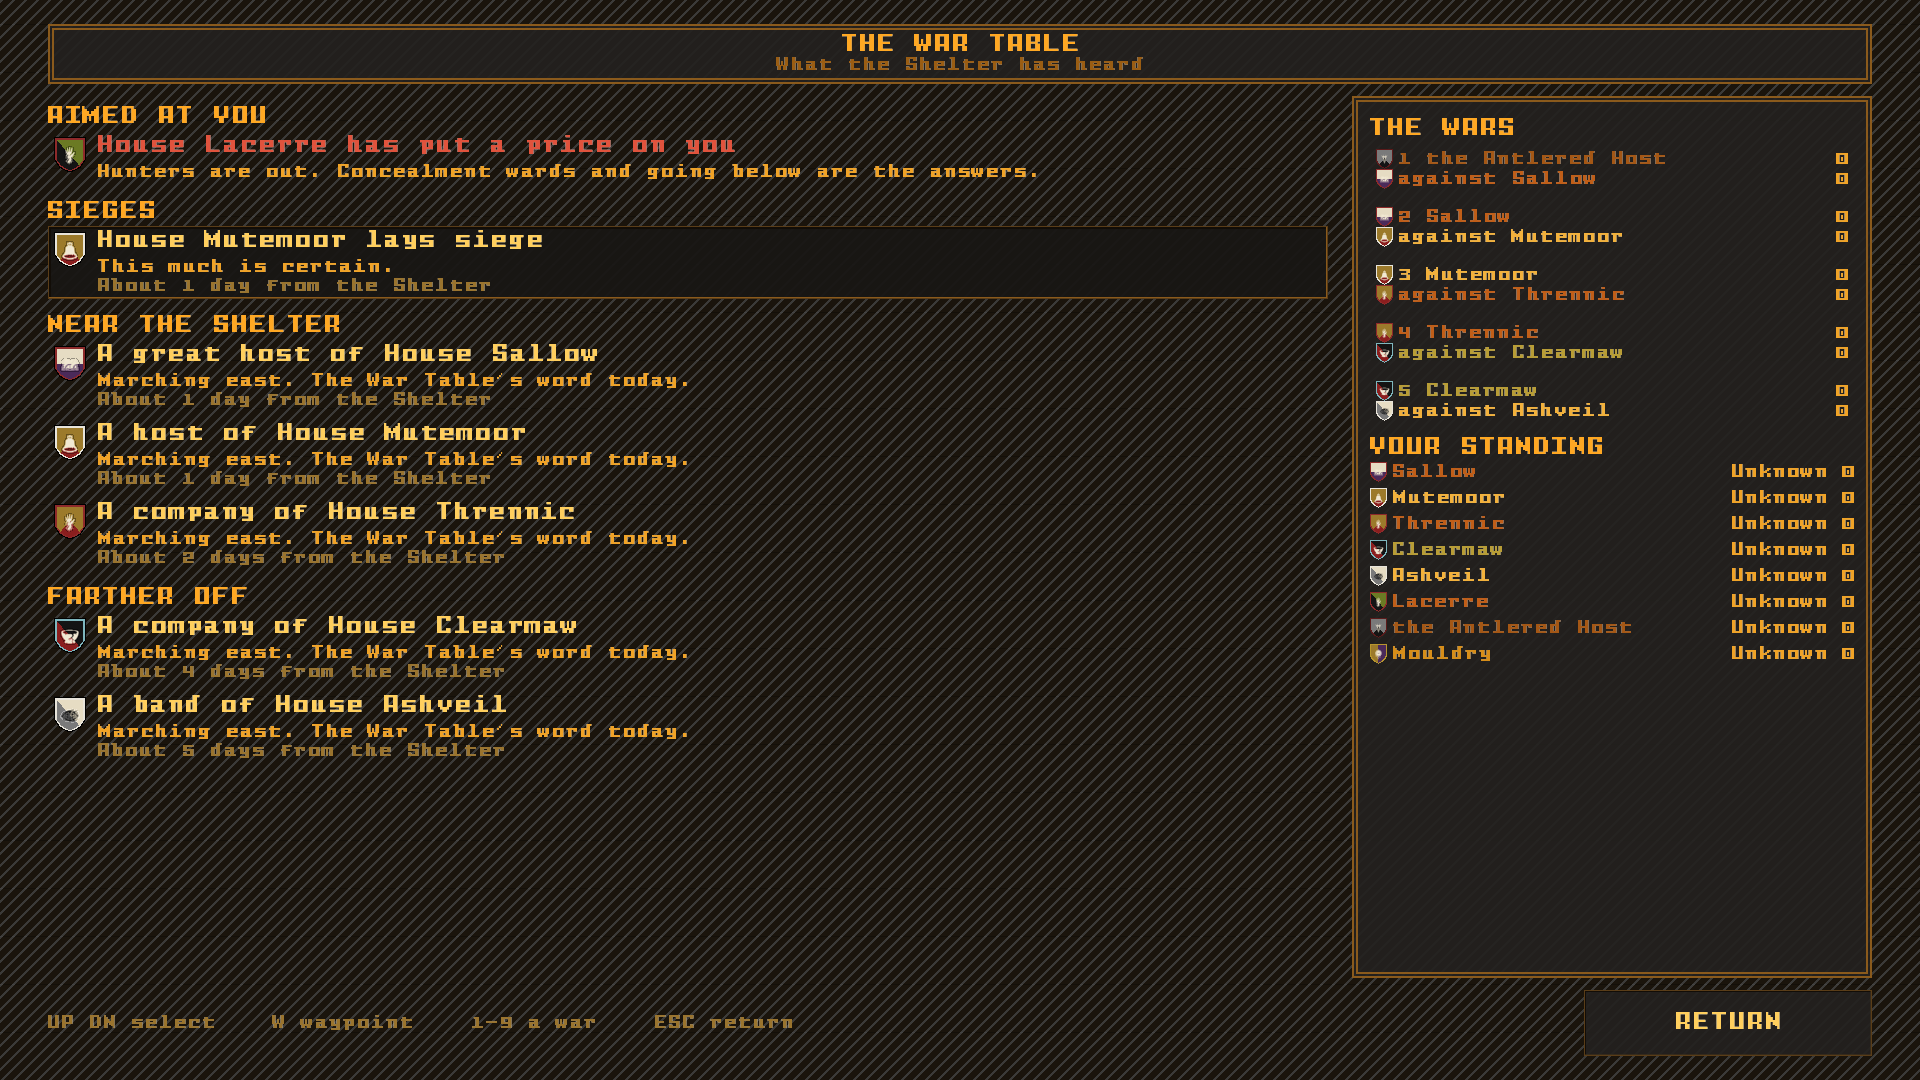
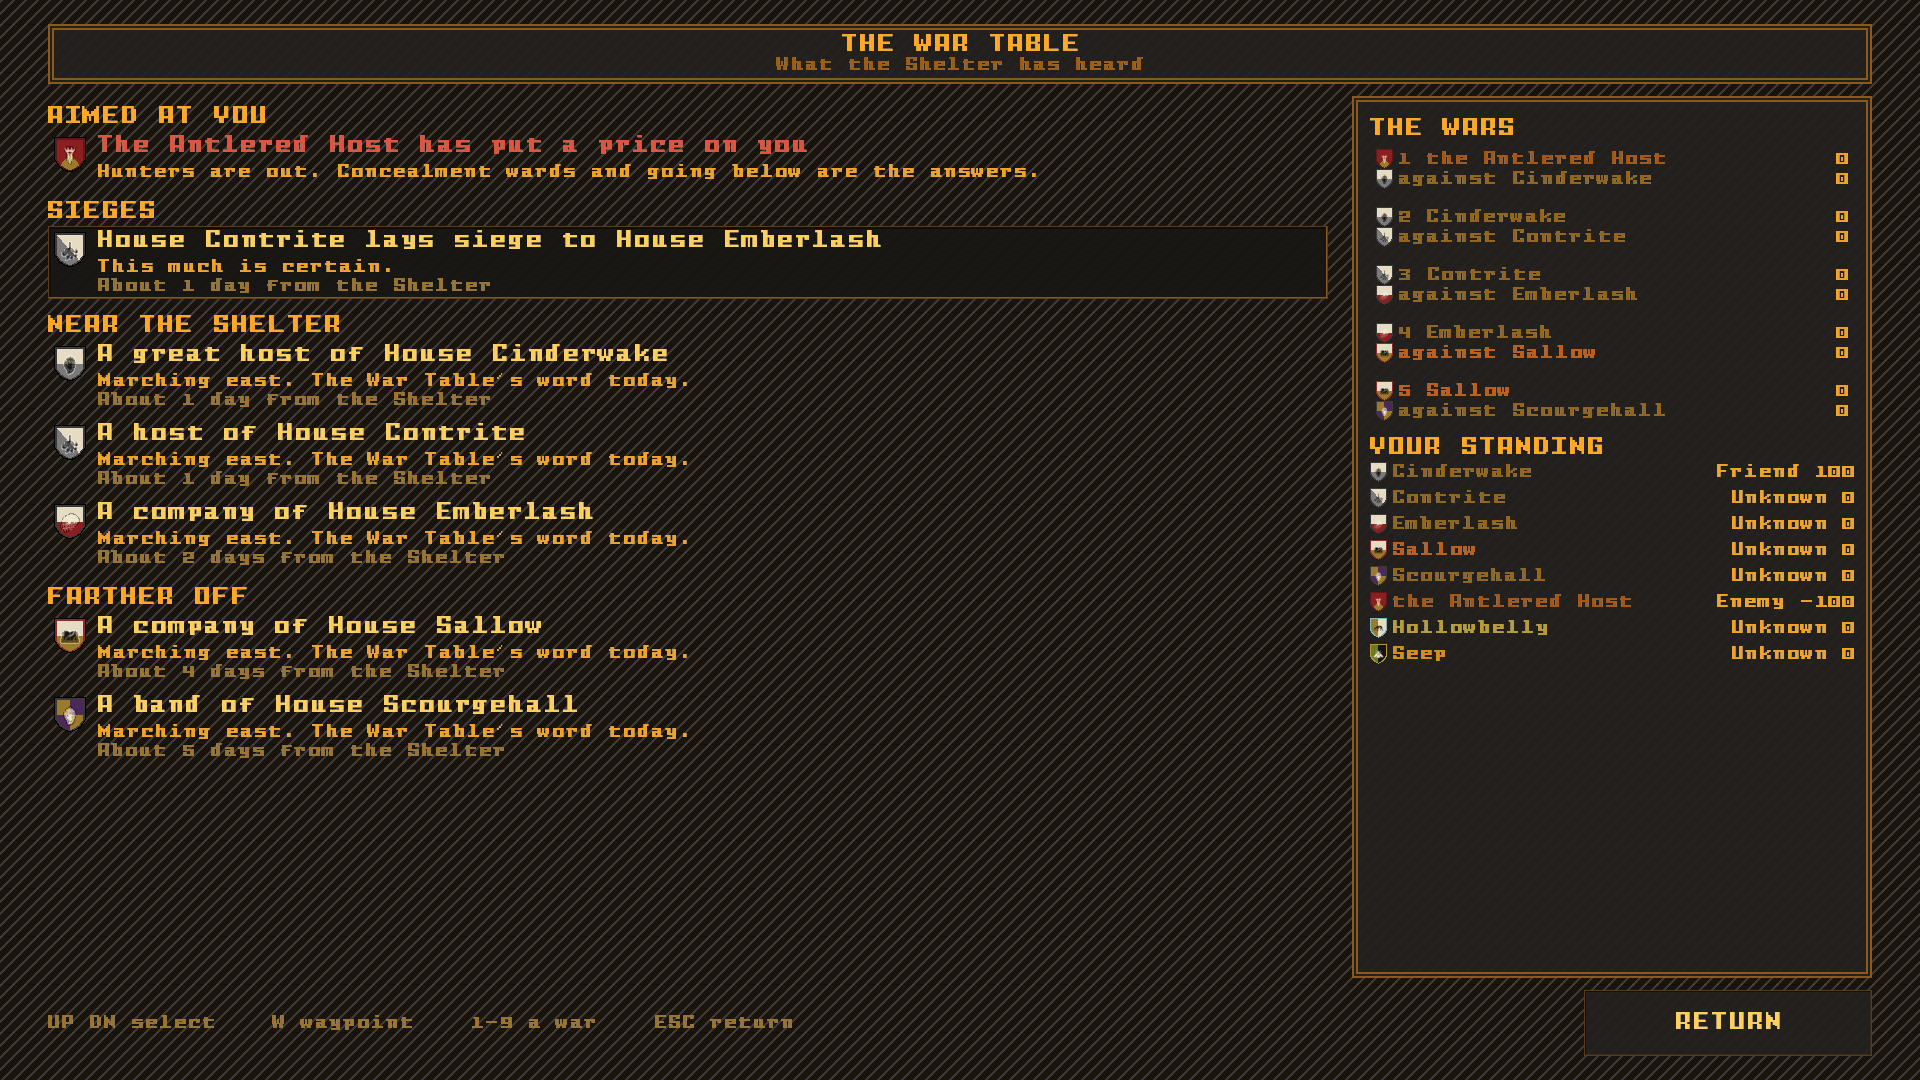
fix(war): what the review of the War Table found
A sworn player is always told what their house wants, and only houses that still
count the player an enemy are warned of. A sworn house's foragers, heralds and
hunters no longer list among its hosts. Sieges name who is besieged and show on
that house's war page. The first row scrolls back to what stands above it.

diff --git a/core/src/main/java/com/bpm/minotaur/gamedata/history/war/Dispatches.java b/core/src/main/java/com/bpm/minotaur/gamedata/history/war/Dispatches.java
@@ -1,6 +1,7 @@
 package com.bpm.minotaur.gamedata.history.war;
 
 import com.badlogic.gdx.math.GridPoint2;
+import com.bpm.minotaur.gamedata.history.favour.Oath;
 import com.bpm.minotaur.gamedata.history.war.army.Army;
 import com.bpm.minotaur.gamedata.map.ArmyKnowledge;
 
@@ -42,8 +43,10 @@ public final class Dispatches {
         /** Where the W key sets the waypoint; null if the news has no place. */
         public final GridPoint2 at;
         final int distance;
+        /** For a siege: the house besieged, or -1. */
+        final int besieged;
 
-        Row(Section section, int houseId, String title, String detail, String distanceWords, GridPoint2 at, int distance) {
+        Row(Section section, int houseId, String title, String detail, String distanceWords, GridPoint2 at, int distance, int besieged) {
             this.section = section;
             this.houseId = houseId;
             this.title = title;
@@ -51,6 +54,7 @@ public final class Dispatches {
             this.distanceWords = distanceWords;
             this.at = at;
             this.distance = distance;
+            this.besieged = besieged;
         }
     }
 
@@ -73,10 +77,10 @@ public final class Dispatches {
             IntFunction<String> houseName, IntFunction<String> figureName) {
         List<Row> rows = new ArrayList<>();
         for (int house : hunted) {
-            rows.add(new Row(Section.AIMED_AT_YOU, house, houseName.apply(house) + " has put a price on you",
-                    "Hunters are out. Concealment wards and going below are the answers.", null, null, 0));
+            rows.add(new Row(Section.AIMED_AT_YOU, house, opening(houseName.apply(house)) + " has put a price on you",
+                    "Hunters are out. Concealment wards and going below are the answers.", null, null, 0, -1));
         }
-        if (task != null) rows.add(new Row(Section.AIMED_AT_YOU, -1, "Your task", task, null, null, 0));
+        if (task != null) rows.add(new Row(Section.AIMED_AT_YOU, -1, "Your task", task, null, null, 0, -1));
         for (ArmyKnowledge.Marker m : known) rows.add(rowOf(m, shelter, clock, houseName, figureName));
         // Stable, so what has no distance keeps its order.
         rows.sort(Comparator.<Row>comparingInt(r -> r.section.ordinal()).thenComparingInt(r -> r.distance));
@@ -89,13 +93,18 @@ public final class Dispatches {
         String far = daysFrom(distance);
         String house = houseName.apply(m.houseId);
         if (m.source == ArmyKnowledge.Source.SIEGE) {
-            return new Row(Section.SIEGES, m.houseId, house + " lays siege", "This much is certain.", far, at, distance);
+            return new Row(Section.SIEGES, m.houseId, opening(house) + " lays siege to " + houseName.apply(m.besiegedHouseId), "This much is certain.", far, at, distance, m.besiegedHouseId);
         }
         List<String> card = ArmyKnowledge.card(m, house, m.captainId >= 0 ? figureName.apply(m.captainId) : null, clock);
         String title = card.get(0);
         String detail = String.join(". ", card.subList(1, card.size())) + ".";
         Section section = m.exact() ? Section.YOUR_HOUSE : distance <= NEAR_DAYS * CHUNKS_PER_DAY ? Section.NEAR_THE_SHELTER : Section.FARTHER_OFF;
-        return new Row(section, m.houseId, title, detail, far, at, distance);
+        return new Row(section, m.houseId, title, detail, far, at, distance, -1);
+    }
+
+    /** A name beginning a line: "the Antlered Host" takes a capital there. */
+    private static String opening(String name) {
+        return name.isEmpty() ? name : Character.toUpperCase(name.charAt(0)) + name.substring(1);
     }
 
     private static String daysFrom(int chunks) {
@@ -116,16 +125,30 @@ public final class Dispatches {
         List<Row> out = new ArrayList<>();
         for (Row r : rows) {
             if (r.section != Section.AIMED_AT_YOU && (r.houseId == attackerId || r.houseId == defenderId)) out.add(r);
+            // A house under siege by a third party is that house's war's news too.
+            else if (r.section == Section.SIEGES && (r.besieged == attackerId || r.besieged == defenderId)) out.add(r);
         }
         return out;
     }
 
-    /** The houses with a Hunting Party out, each once: the Table warns of them, but not of where they are. */
-    public static Iterable<Integer> hunted(Iterable<Army> armies) {
+    /**
+     * The houses with a Hunting Party out after the player, each once: the Table warns of them, but
+     * not of where they are.
+     *
+     * @param countsThePlayerAnEnemy a party out from a house that no longer does is not aimed at them
+     */
+    public static Iterable<Integer> hunted(Iterable<Army> armies, java.util.function.IntPredicate countsThePlayerAnEnemy) {
         TreeSet<Integer> out = new TreeSet<>();
         for (Army a : armies) {
-            if (a.kind == Army.Kind.HUNTING_PARTY && a.soldiers > 0) out.add(a.houseId);
+            if (a.kind == Army.Kind.HUNTING_PARTY && a.soldiers > 0 && countsThePlayerAnEnemy.test(a.houseId)) out.add(a.houseId);
         }
         return out;
+    }
+
+    /** What a sworn player's house asks of them, or null if they are not sworn. */
+    public static String task(Oath oath, com.bpm.minotaur.gamedata.history.HistoryWorld world) {
+        if (!oath.sworn()) return null;
+        if (oath.contract == null) return "Your house has no task for you. Go to its war banner.";
+        return oath.contract.done ? "Your task is done. Go to its war banner to be paid." : oath.contract.describe(world);
     }
 }

diff --git a/core/src/test/java/com/bpm/minotaur/gamedata/history/war/DispatchesTest.java b/core/src/test/java/com/bpm/minotaur/gamedata/history/war/DispatchesTest.java
@@ -75,7 +75,7 @@ public class DispatchesTest {
         army(1, GULLET, 60, 0, 15);
         army(2, SEEP, 2, 0, 15);
         army(3, SEEP, 90, 0, 15);
-        List<ArmyKnowledge.Marker> sieges = Collections.singletonList(ArmyKnowledge.siege(SEEP, 7, 7, 100));
+        List<ArmyKnowledge.Marker> sieges = Collections.singletonList(ArmyKnowledge.siege(SEEP, GULLET, 7, 7, 100));
         List<Dispatches.Row> rows = news(seen(GULLET, sieges), Collections.singletonList(SEEP), "Hold the ground");
         assertEquals(Arrays.asList(Dispatches.Section.AIMED_AT_YOU, Dispatches.Section.YOUR_HOUSE, Dispatches.Section.SIEGES,
                 Dispatches.Section.NEAR_THE_SHELTER, Dispatches.Section.FARTHER_OFF), new ArrayList<>(Dispatches.bySection(rows).keySet()));
@@ -106,17 +106,48 @@ public class DispatchesTest {
         army(1, SEEP, 2, 0, 5).kind = Army.Kind.HUNTING_PARTY;
         army(2, SEEP, 9, 0, 5).kind = Army.Kind.HUNTING_PARTY;
         army(3, GULLET, 9, 0, 15);
-        List<Dispatches.Row> rows = news(Collections.emptyList(), Dispatches.hunted(roster.armies), null);
+        List<Dispatches.Row> rows = news(Collections.emptyList(), Dispatches.hunted(roster.armies, h -> true), null);
         assertEquals(1, rows.size());
         assertEquals(Dispatches.Section.AIMED_AT_YOU, rows.get(0).section);
         assertTrue(rows.get(0).title, rows.get(0).title.contains("price on you"));
         assertNull("no waypoint to a hunter", rows.get(0).at);
     }
 
+    /** Sworn to it, or at peace with it now: its party out is not aimed at the player. */
+    @Test
+    public void aHouseThatNoLongerCountsThePlayerAnEnemyIsNotWarnedOf() {
+        army(1, SEEP, 2, 0, 5).kind = Army.Kind.HUNTING_PARTY;
+        assertFalse(Dispatches.hunted(roster.armies, h -> false).iterator().hasNext());
+    }
+
+    @Test
+    public void aSwornPlayersOwnForagersAndHuntersAreNotAmongItsHosts() {
+        army(1, GULLET, 40, 0, 15);
+        army(2, GULLET, 50, 0, 5).kind = Army.Kind.HUNTING_PARTY;
+        army(3, GULLET, 60, 0, 5).kind = Army.Kind.FORAGERS;
+        army(4, GULLET, 70, 0, 5).kind = Army.Kind.HERALD;
+        assertEquals(1, news(seen(GULLET, Collections.emptyList()), Collections.emptyList(), null).size());
+    }
+
+    @Test
+    public void aSwornPlayerIsAlwaysToldWhatTheirHouseWants() {
+        com.bpm.minotaur.gamedata.history.favour.Oath oath = new com.bpm.minotaur.gamedata.history.favour.Oath();
+        assertNull(Dispatches.task(oath, null));
+        oath.houseId = GULLET;
+        assertTrue(Dispatches.task(oath, null).contains("war banner"));
+    }
+
+    @Test
+    public void aSiegeNamesWhoIsBesieged() {
+        List<Dispatches.Row> rows = news(Collections.singletonList(ArmyKnowledge.siege(SEEP, GULLET, 7, 7, 100)), Collections.emptyList(), null);
+        assertEquals("House Seep lays siege to House Gullet", rows.get(0).title);
+        assertEquals("on the besieged house's page too", 1, Dispatches.ofWar(rows, GULLET, 9).size());
+    }
+
     @Test
     public void hostAndSiegeRowsCarryAWaypoint() {
         army(1, SEEP, 2, 0, 15);
-        for (Dispatches.Row r : news(seen(-1, Collections.singletonList(ArmyKnowledge.siege(GULLET, 7, 7, 100))), Collections.emptyList(), "A task")) {
+        for (Dispatches.Row r : news(seen(-1, Collections.singletonList(ArmyKnowledge.siege(GULLET, SEEP, 7, 7, 100))), Collections.emptyList(), "A task")) {
             if (r.section == Dispatches.Section.AIMED_AT_YOU) assertNull(r.at);
             else assertNotNull(r.title, r.at);
         }
@@ -142,7 +173,7 @@ public class DispatchesTest {
             a.targetY = 1;
         }
         army(1, SEEP, 2, 0, 15);
-        List<ArmyKnowledge.Marker> sieges = Collections.singletonList(ArmyKnowledge.siege(SEEP, 7, 7, 100));
+        List<ArmyKnowledge.Marker> sieges = Collections.singletonList(ArmyKnowledge.siege(SEEP, GULLET, 7, 7, 100));
         for (Dispatches.Row r : news(seen(GULLET, sieges), Collections.singletonList(SEEP), "A task")) {
             assertEquals(r.title, -1, UiGlyphs.firstUnsupportedIndex(r.title));
             assertEquals(r.detail, -1, UiGlyphs.firstUnsupportedIndex(r.detail));

diff --git a/core/src/main/java/com/bpm/minotaur/gamedata/map/ArmyKnowledge.java b/core/src/main/java/com/bpm/minotaur/gamedata/map/ArmyKnowledge.java
@@ -72,6 +72,8 @@ public final class ArmyKnowledge {
         public final Army.Objective objective;
         /** Where else it has been known to be, oldest first, as x, y pairs. */
         public final int[] past;
+        /** For a siege: the house besieged, or -1. */
+        public int besiegedHouseId = -1;
 
         Marker(int armyId, int houseId, int x, int y, int dx, int dy, Size size, int captainId, long observedAt, Source source,
                 int exactSoldiers, Army.Objective objective, int[] past) {
@@ -330,7 +332,7 @@ public final class ArmyKnowledge {
         Map<Integer, Marker> out = new LinkedHashMap<>(markers);
         if (swornHouse >= 0) {
             for (Army a : roster.armies) {
-                if (a.soldiers <= 0 || a.houseId != swornHouse) continue;
+                if (a.soldiers <= 0 || a.houseId != swornHouse || !aHost(a)) continue;
                 int[] heading = headingOf(a);
                 int[] road = new int[a.trail.length * 2];
                 for (int i = 0; i < a.trail.length; i++) {
@@ -347,8 +349,10 @@ public final class ArmyKnowledge {
     }
 
     /** A siege, marked exactly: {@code at} is where it is, and everyone knows it (A49). */
-    public static Marker siege(int houseId, int x, int y, long clock) {
-        return new Marker(-1 - houseId, houseId, x, y, 0, 0, Size.HOST, -1, clock, Source.SIEGE, -1, null, new int[0]);
+    public static Marker siege(int houseId, int besiegedHouseId, int x, int y, long clock) {
+        Marker m = new Marker(-1 - houseId, houseId, x, y, 0, 0, Size.HOST, -1, clock, Source.SIEGE, -1, null, new int[0]);
+        m.besiegedHouseId = besiegedHouseId;
+        return m;
     }
 
     /** What is public whatever the player has heard: Castle Tarmin's siege, and any seat under assault (A49). */
@@ -356,10 +360,10 @@ public final class ArmyKnowledge {
         List<Marker> out = new ArrayList<>();
         int besieger = com.bpm.minotaur.gamedata.history.war.Siege.besieger(world);
         if (besieger >= 0 && biomes != null && biomes.getCastleSite() != null) {
-            out.add(siege(besieger, Math.round(biomes.getCastleSite().x), Math.round(biomes.getCastleSite().y), clock));
+            out.add(siege(besieger, world.tarminHouse().id, Math.round(biomes.getCastleSite().x), Math.round(biomes.getCastleSite().y), clock));
         }
         for (ArmyBattle b : roster.battles) {
-            if (b.garrisonOf >= 0) out.add(siege(b.houseA, b.x, b.y, clock));
+            if (b.garrisonOf >= 0) out.add(siege(b.houseA, b.garrisonOf, b.x, b.y, clock));
         }
         return out;
     }
@@ -370,6 +374,11 @@ public final class ArmyKnowledge {
     }
 
     // ---- Telling ----
+
+    /** What is reported as a house's hosts: not its foragers, heralds or hunters. */
+    private static boolean aHost(Army a) {
+        return a.kind != Army.Kind.FORAGERS && a.kind != Army.Kind.HERALD && a.kind != Army.Kind.HUNTING_PARTY;
+    }
 
     /** Words for a heading: "north-east"; null for none. */
     public static String headingWords(int dx, int dy) {

diff --git a/core/src/main/java/com/bpm/minotaur/screens/WarTableScreen.java b/core/src/main/java/com/bpm/minotaur/screens/WarTableScreen.java
@@ -193,9 +193,8 @@ public class WarTableScreen extends BaseScreen {
         long clock = history.warClock();
         int sworn = oath.sworn() ? oath.houseId : -1;
         List<ArmyKnowledge.Marker> markers = known.markers(history.roster(), sworn, ArmyKnowledge.sieges(world, history.roster(), worldManager.getBiomeManager(), clock), clock);
-        String task = !oath.sworn() || oath.contract == null ? null
-                : oath.contract.done ? "Your task is done. Go to a war banner of your house to be paid." : oath.contract.describe(world);
-        return Dispatches.news(markers, shelter(), Dispatches.hunted(history.roster().armies), task, clock,
+        Iterable<Integer> hunted = Dispatches.hunted(history.roster().armies, h -> history.stanceOf(h) == com.bpm.minotaur.gamedata.history.favour.Favour.Tier.ENEMY);
+        return Dispatches.news(markers, shelter(), hunted, Dispatches.task(oath, world), clock,
                 h -> {
                     com.bpm.minotaur.gamedata.history.House house = world.house(h);
                     return house != null ? house.name : "a house of the Maze";
@@ -289,11 +288,14 @@ public class WarTableScreen extends BaseScreen {
             return;
         }
         selected = Math.max(0, Math.min(placed.size() - 1, index));
+        if (footerHint != null) footerHint.setText(page != null ? KEYS_ON_A_PAGE : KEYS_ON_THE_NEWS);
         Table row = placedRows.get(selected);
         row.setBackground(hudSkin.getSlotRecessed());
         if (newsScroll != null) {
             newsScroll.layout();
-            if (row.getParent() != null) newsScroll.scrollTo(row.getX(), row.getY(), row.getWidth(), row.getHeight());
+            // The first row brings back what stands above it, which takes no waypoint and cannot be selected.
+            if (selected == 0) newsScroll.setScrollY(0f);
+            else if (row.getParent() != null) newsScroll.scrollTo(row.getX(), row.getY(), row.getWidth(), row.getHeight());
         }
     }
 
@@ -332,7 +334,7 @@ public class WarTableScreen extends BaseScreen {
         if (!risk.isEmpty()) {
             railHeading(rail, "SEATS AT RISK");
             for (WarReport.SeatAtRisk s : risk) {
-                rail.add(UiLabels.wrapping(UiGlyphs.sanitize(railName(s.house) + " holds " + s.gash + " at strength " + s.strength + "."),
+                rail.add(UiLabels.wrapping(UiGlyphs.sanitize(railName(s.house) + " holds " + s.gash + " at strength " + s.strength + ". One more lost battle may cost it the gash."),
                         style(hudSkin.getFontSmall(), HudSkin.COL_GOLD_ANTIQUE))).growX().left().padBottom(UiTheme.PAD_XS).row();
             }
         }

diff --git a/core/src/main/java/com/bpm/minotaur/playtest/scenarios/WarTableScenario.java b/core/src/main/java/com/bpm/minotaur/playtest/scenarios/WarTableScenario.java
@@ -93,6 +93,7 @@ public final class WarTableScenario implements PlaytestScenario {
             army(roster, 9003, houses.get(3).id, here.x + 50, here.y + 3, Army.Kind.LEVY, 15);
             army(roster, 9004, houses.get(4).id, here.x, here.y - 55, Army.Kind.HOST, 8);
             army(roster, 9005, houses.get(5).id, here.x + 2, here.y, Army.Kind.HUNTING_PARTY, 5);
+            history.favour().change(world, houses.get(5).id, -200);
             ArmyBattle siege = new ArmyBattle();
             siege.id = 9100;
             siege.x = here.x + 12;
@@ -122,7 +123,7 @@ public final class WarTableScenario implements PlaytestScenario {
             ctx.assertTrue(ctx.getGame().getScreen() instanceof WarTableScreen, "ESC on a page returned to the news, not the Shelter");
             HistoryManager history = ctx.getWorldManager().getHistory();
             history.oath().houseId = houses.get(0).id;
-            history.roster().armies.get(history.roster().armies.size() - 6).objective = Army.Objective.SEAT;
+            history.roster().army(9000).objective = Army.Objective.SEAT;
             ctx.getGame().setScreen(ctx.getGameScreen());
             open(ctx);
         });

diff --git a/core/src/main/java/com/bpm/minotaur/playtest/scenarios/ArmyMarksScenario.java b/core/src/main/java/com/bpm/minotaur/playtest/scenarios/ArmyMarksScenario.java
@@ -106,7 +106,7 @@ public final class ArmyMarksScenario implements PlaytestScenario {
             roster.battles.add(siege);
 
             Set<ArmyKnowledge.Source> sources = EnumSet.noneOf(ArmyKnowledge.Source.class);
-            for (ArmyKnowledge.Marker m : known.markers(roster, history.oath().houseId, List.of(ArmyKnowledge.siege(siege.houseA, siege.x, siege.y, clock)), clock)) {
+            for (ArmyKnowledge.Marker m : known.markers(roster, history.oath().houseId, List.of(ArmyKnowledge.siege(siege.houseA, siege.houseB, siege.x, siege.y, clock)), clock)) {
                 sources.add(m.source);
             }
             ctx.log("Sources: " + sources + ", sounds " + known.sounds(clock).size());

diff --git a/core/src/test/java/com/bpm/minotaur/gamedata/map/ArmyKnowledgeTest.java b/core/src/test/java/com/bpm/minotaur/gamedata/map/ArmyKnowledgeTest.java
@@ -251,7 +251,7 @@ public class ArmyKnowledgeTest {
 
     @Test
     public void aSiegeIsPublicAndNeverAges() {
-        ArmyKnowledge.Marker siege = ArmyKnowledge.siege(HOUSE, 5, 6, 100);
+        ArmyKnowledge.Marker siege = ArmyKnowledge.siege(HOUSE, LEAGUE, 5, 6, 100);
         assertTrue(siege.exact());
         assertEquals(1f, siege.strength(100000), 0f);
         List<ArmyKnowledge.Marker> all = known.markers(roster, -1, Collections.singletonList(siege), 100);
